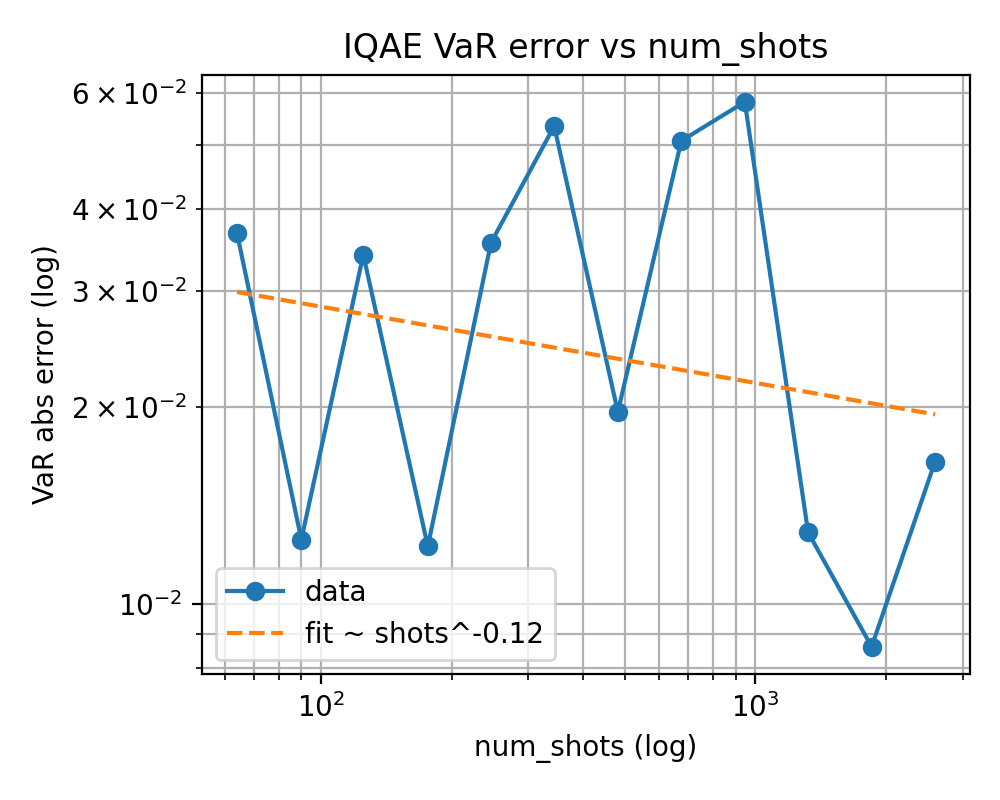
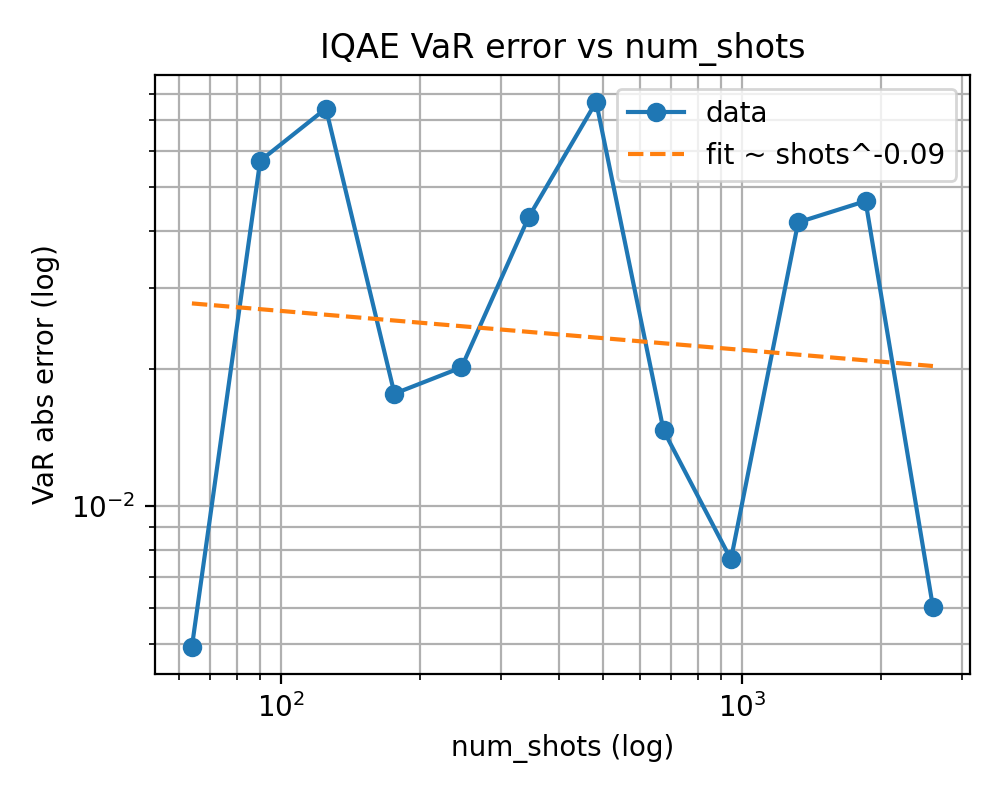
quantum work

Changed region(s): [[0.062, 0.0312, 0.961, 0.9062], [0.465, 0.9062, 0.682, 0.9688]]

diff --git a/quantum/iqae_epsilon_scaling.py b/quantum/iqae_epsilon_scaling.py
@@ -1,0 +1,159 @@
+import argparse
+import logging
+import os
+import sys
+from typing import List
+
+import numpy as np
+import matplotlib.pyplot as plt
+
+from classiq.applications.iqae.iqae import IQAE
+from classiq.interface.executor.execution_preferences import ExecutionPreferences
+from classiq.interface.generator.model import Constraints, Preferences
+
+if __package__ is None:
+    sys.path.append(os.path.dirname(os.path.dirname(__file__)))
+
+from quantum.var_state_prep import set_gaussian_state_params
+import quantum.iqae_var_run as iqae_var_run
+
+LOGGER = logging.getLogger(__name__)
+
+
+def geom_series(start: float, ratio: float, count: int) -> List[float]:
+    values: List[float] = []
+    current = float(start)
+    for _ in range(count):
+        values.append(current)
+        current *= ratio
+    return values
+
+
+def parse_list(value: str) -> List[float]:
+    parts = [p.strip() for p in value.split(",") if p.strip()]
+    return [float(p) for p in parts]
+
+
+def total_queries(iterations_data) -> int:
+    total = 0
+    for it in iterations_data:
+        k = int(it.grover_iterations)
+        shots = it.sample_results.num_shots
+        if shots is None:
+            shots = sum(it.sample_results.counts.values())
+        total += int(shots) * (2 * k + 1)
+    return total
+
+
+def main():
+    parser = argparse.ArgumentParser(
+        description="IQAE scaling vs epsilon (queries ~ 1/epsilon)."
+    )
+    parser.add_argument("--mu", type=float, default=0.0)
+    parser.add_argument("--sigma", type=float, default=1.0)
+    parser.add_argument("--num-qubits", type=int, default=7)
+    parser.add_argument("--alpha", type=float, default=0.05)
+    parser.add_argument("--num-sigmas", type=float, default=3.0)
+    parser.add_argument("--prep-bound", type=float, default=0.0)
+    parser.add_argument("--max-width", type=int, default=28)
+    parser.add_argument("--machine-precision", type=int, default=None)
+    parser.add_argument("--num-shots", type=int, default=64)
+    parser.add_argument(
+        "--epsilons",
+        type=str,
+        default="auto",
+        help="Comma list or 'auto' for 12 points /1.4 starting at 0.2.",
+    )
+    parser.add_argument("--out", type=str, default="quantum/iqae_epsilon_scaling.png")
+    parser.add_argument("--show", action="store_true")
+    parser.add_argument("--log-level", type=str, default="INFO")
+    args = parser.parse_args()
+
+    logging.basicConfig(
+        level=getattr(logging, args.log_level.upper(), logging.INFO),
+        format="%(levelname)s %(name)s: %(message)s",
+    )
+
+    if args.epsilons == "auto":
+        epsilons = geom_series(start=0.2, ratio=1 / 1.4, count=12)
+    else:
+        epsilons = parse_list(args.epsilons)
+
+    grid, probs = set_gaussian_state_params(
+        mu=args.mu,
+        sigma=args.sigma,
+        num_qubits=args.num_qubits,
+        num_sigmas=args.num_sigmas,
+        prep_bound=args.prep_bound,
+    )
+    cdf = np.cumsum(probs)
+    index = int(np.searchsorted(cdf, args.alpha))
+    true_alpha = float(cdf[index])
+    iqae_var_run.GLOBAL_INDEX = index
+    LOGGER.info("Using index=%s true_alpha=%.6f", index, true_alpha)
+
+    constraints = Constraints(max_width=args.max_width) if args.max_width else None
+    preferences = (
+        Preferences(machine_precision=args.machine_precision)
+        if args.machine_precision
+        else None
+    )
+    iqae = IQAE(
+        state_prep_op=iqae_var_run.state_preparation,
+        problem_vars_size=args.num_qubits,
+        constraints=constraints,
+        preferences=preferences,
+    )
+    exec_prefs = ExecutionPreferences(num_shots=args.num_shots)
+
+    results = []
+    for eps in epsilons:
+        LOGGER.info("Running IQAE for epsilon=%.6f", eps)
+        res = iqae.run(
+            epsilon=eps,
+            alpha=0.01,
+            execution_preferences=exec_prefs,
+        )
+        queries = total_queries(res.iterations_data)
+        error = abs(float(res.estimation) - true_alpha)
+        results.append((eps, queries, error))
+
+    eps_arr = np.array([r[0] for r in results], dtype=float)
+    queries_arr = np.array([r[1] for r in results], dtype=float)
+    error_arr = np.array([r[2] for r in results], dtype=float)
+
+    fig, ax = plt.subplots(1, 2, figsize=(10, 4))
+
+    ax[0].plot(1.0 / eps_arr, queries_arr, "o-")
+    ax[0].set_xlabel("1 / epsilon")
+    ax[0].set_ylabel("Total oracle queries")
+    ax[0].set_title("Queries vs 1/epsilon")
+    ax[0].grid(True)
+
+    ax[1].loglog(eps_arr, queries_arr, "o-", label="data")
+    coeffs = np.polyfit(np.log(eps_arr), np.log(queries_arr), 1)
+    slope = coeffs[0]
+    intercept = coeffs[1]
+    fit_queries = np.exp(intercept) * (eps_arr**slope)
+    ax[1].loglog(
+        eps_arr,
+        fit_queries,
+        "--",
+        label=f"fit ~ eps^{slope:.2f}",
+    )
+    ax[1].set_xlabel("epsilon (log)")
+    ax[1].set_ylabel("queries (log)")
+    ax[1].set_title("Log-log slope (expect ~ -1)")
+    ax[1].legend()
+    ax[1].grid(True, which="both")
+
+    fig.tight_layout()
+    fig.savefig(args.out, dpi=200)
+    print(f"Saved plot to: {args.out}")
+
+    if args.show:
+        plt.show()
+
+
+if __name__ == "__main__":
+    main()

diff --git a/quantum/iqae_shots_scaling.py b/quantum/iqae_shots_scaling.py
@@ -32,8 +32,8 @@ def main():
     parser.add_argument("--sigma", type=float, default=1.0)
     parser.add_argument("--num-qubits", type=int, default=7)
     parser.add_argument("--alpha", type=float, default=0.05)
-    parser.add_argument("--epsilon", type=float, default=0.05)
-    parser.add_argument("--confidence-alpha", type=float, default=0.01)
+    parser.add_argument("--epsilon", type=float, default=0.142857)
+    parser.add_argument("--confidence-alpha", type=float, default=0.102041)
     parser.add_argument("--num-sigmas", type=float, default=3.0)
     parser.add_argument("--prep-bound", type=float, default=0.0)
     parser.add_argument("--max-width", type=int, default=28)

diff --git a/quantum/iqae_eps_alpha_tuning.py b/quantum/iqae_eps_alpha_tuning.py
@@ -36,7 +36,7 @@ def main():
     )
     parser.add_argument("--mu", type=float, default=0.0)
     parser.add_argument("--sigma", type=float, default=1.0)
-    parser.add_argument("--num-qubits", type=int, default=7)
+    parser.add_argument("--num-qubits", type=int, default=4)
     parser.add_argument("--alpha", type=float, default=0.05)
     parser.add_argument("--num-sigmas", type=float, default=3.0)
     parser.add_argument("--prep-bound", type=float, default=0.0)

diff --git a/quantum/README.md b/quantum/README.md
@@ -23,3 +23,8 @@ Tune IQAE epsilon/confidence_alpha at fixed shots (default 64):
 ```
 uv run python -m quantum.iqae_eps_alpha_tuning
 ```
+
+Epsilon scaling (queries vs 1/epsilon):
+```
+uv run python -m quantum.iqae_epsilon_scaling
+```
